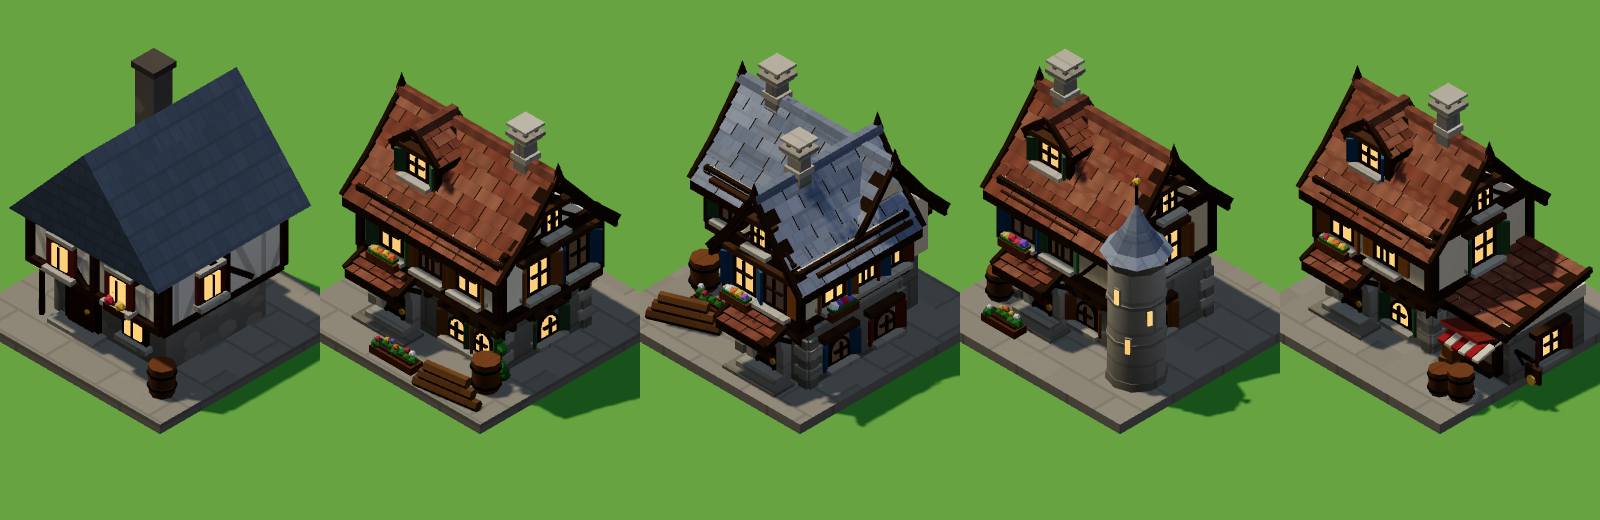
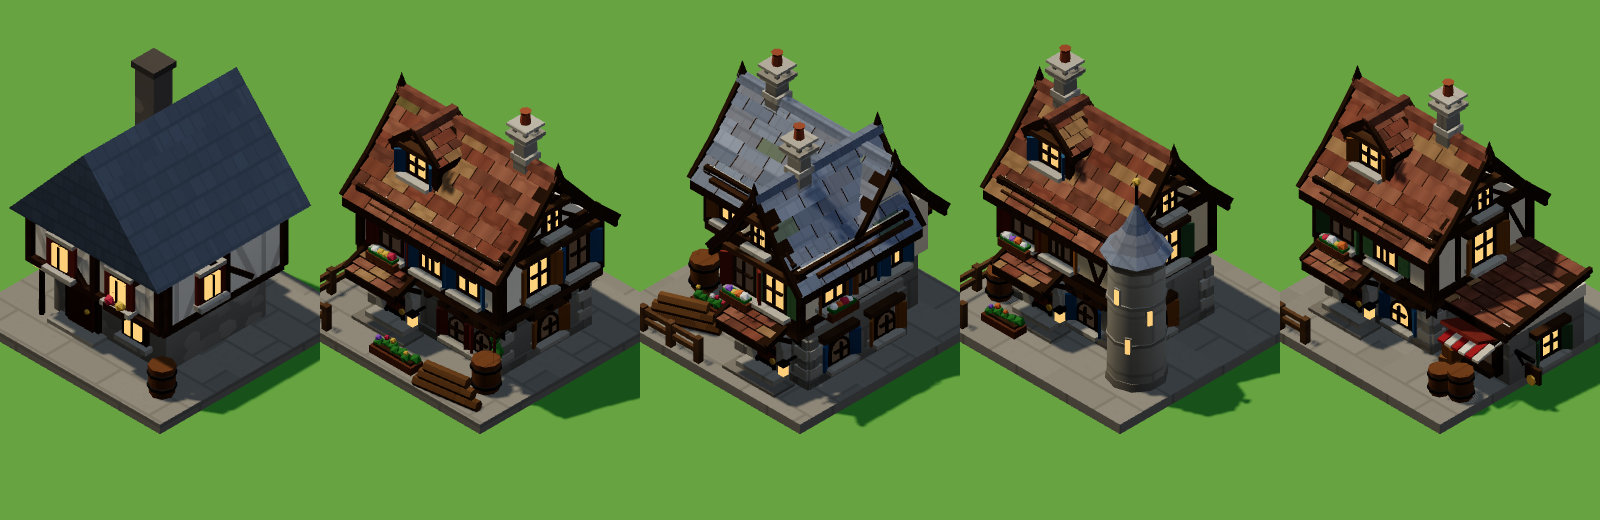
Ev prototipi ikinci görsel geçiş ve kamera mesafesine bağlı LOD
Toprak tonlu çatı paleti, kapı feneri, taban kuşağı, baca çömleği, bahçe çitleri, varyanta özgü iskelet deseni;
mimariLod (zoom eşiği, histerezis) sahne.js'e bağlandı; kaynak sınır testleri eklendi.

Claude-Session: https://claude.ai/code/session_018m4YWMHZMR8kk5FZK7FBZX

diff --git a/src/render/mimari/tarifler/yari_ahsap_ev.js b/src/render/mimari/tarifler/yari_ahsap_ev.js
@@ -35,7 +35,7 @@ function kanat(Y, S, o) {
     W.prizma([[uz0 + 0.04, y2 - 0.01], [uz1 - 0.04, y2 - 0.01], [czU, y2 + H - 0.065]], sx > 0 ? px - 0.04 : px, sx > 0 ? px : px + 0.04, 'x', 0, 0, 0, 'duz', o.siva);
   }
   // çatı
-  const cati = catiBesik(W, { x0: cxU, z0: czU, w: wU, d: dU, y: y2, H, oh: 0.05, rake: 0.04, renk, doku, kabukRenk: kabuk, kuyruk: true });
+  const cati = catiBesik(W, { x0: cxU, z0: czU, w: wU, d: dU, y: y2, H, oh: 0.05, rake: 0.04, renk, doku, kabukRenk: kabuk, kuyruk: true, yosun: S.yosun });
 
   for (const [f, tanim] of Object.entries(yuz)) {
     const gw = f[0] === 'z' ? w : d, uw = f[0] === 'z' ? wU : dU;
@@ -46,6 +46,8 @@ function kanat(Y, S, o) {
     const dl = [];
     if (tanim.kapi) { const k = tanim.kapi; kapi(G, S, k); dl.push([k.x - k.w / 2, k.x + k.w / 2]); if (tanim.tente) tente(G, S, { x: k.x, y: k.h + 0.04, w: k.w + 0.1 }); }
     for (const p of tanim.zemin || []) pencere(G, S, { y: 0.075, w: 0.07, h: 0.085, tip: 'kemer', panjur: 'acik', ...p });
+    // taş taban kuşağı (yağmur/çamur sıçraması için koyu ve çıkıntılı)
+    G.kutu(gw + 0.012, 0.034, 0.012, 0, 0, 0.004, 'moloz', S.tas);
     // köşe taşları (dönüşümlü uzun/kısa) iki uçta
     for (const s of [-1, 1]) {
       for (let i = 0; i < Math.floor(h1 / 0.04); i++) {
@@ -83,6 +85,8 @@ function sokak(Y, S, k, R, dekor) {
   const f = Y;
   if (dekor.patika) for (let i = 0; i < 3; i++) f.kutu(0.085 + R() * 0.03, 0.012, 0.075, dekor.patika[0] + (R() - 0.5) * 0.03, 0, dekor.patika[1] + i * 0.095, 'tasBlok', R() < 0.5 ? S.tasAcik : S.tas, { ry: (R() - 0.5) * 0.4 });
 }
+// Alçak ahşap bahçe çiti (k.cit): ön/yan kenarı tanımlar, avluya kimlik verir.
+function citSira(Y, x0, z0, x1, z1, Z) { Y.k.cit(x0, z0, x1, z1, Z, 0x7a5a3a, 0.1); }
 function varil(Y, S, x, z, y, s = 1) {
   Y.silindir(0.052 * s, 0.047 * s, 0.12 * s, 9, x, y, z, 'tahta', 0x8a5a32);
   for (const t of [0.22, 0.78]) Y.silindir(0.056 * s, 0.056 * s, 0.012 * s, 9, x, y + 0.12 * s * t - 0.006 * s, z, 'duz', S.demir);
@@ -179,15 +183,16 @@ export function yariAhsapEv(k, c, vr = 0) {
       dorm: [{ x: -0.14, z: 0.3 }, ...(sv3 ? [{ x: 0.14, z: 0.3 }] : [])], baca: [{ x: 0.22, h: 0.17 }] });
     varil(Y, S, 0.33, 0.3, Z, 1);
     Y.k.odun(0.28, 0.44, Z, 0.15, 0.9);
+    citSira(Y, -0.44, 0.44, -0.3, 0.44, Z); citSira(Y, -0.44, -0.05, -0.44, 0.44, Z);
     cicekYatagi(Y, S, 0.0, 0.405, Z + 0.0, 0.2, 0.06);
     sarmasik(Y, 0.305, 0.215, Z, 0.2);
     sokak(Y, S, k, R, { patika: [-0.16, 0.2] });
   } else if (vr === 1) {
     // L PLANLI: arka ana kanat (mahya x) + öne uzanan çapraz kanat (mahya z); arduvaz çatı
-    const a1 = kanat(Y, S, { Z, w: 0.6, d: 0.36, h1: 0.22, h2: 0.23 * s, H: 0.24 * s, cx: -0.05, cz: -0.14, cikma: ['x+', 'z+'], renk: arduvaz, doku: 'arduvaz', siva,
+    const a1 = kanat(Y, S, { Z, w: 0.6, d: 0.36, h1: 0.22, h2: 0.23 * s, H: 0.24 * s, cx: -0.05, cz: -0.14, cikma: ['x+', 'z+'], desen: 'x', renk: arduvaz, doku: 'arduvaz', siva,
       yuz: { 'z+': { zemin: [{ x: -0.2 }], ust: [{ x: -0.2, w: 0.08 }, { x: -0.04, w: 0.08, tip: 'cift' }] } },
       dorm: [], baca: [{ x: -0.2, h: 0.15 }] });
-    ana = kanat(Y, S, { Z, w: 0.46, d: 0.34, h1: 0.23, h2: 0.25 * s, H: 0.235 * s, cx: 0.17, cz: 0.07, ry: -PI / 2, cikma: ['x+'], renk: arduvaz, doku: 'arduvaz', siva,
+    ana = kanat(Y, S, { Z, w: 0.46, d: 0.34, h1: 0.23, h2: 0.25 * s, H: 0.235 * s, cx: 0.17, cz: 0.07, ry: -PI / 2, cikma: ['x+'], desen: 'x', renk: arduvaz, doku: 'arduvaz', siva,
       yuz: {
         'x+': { kapi: { x: 0.0, w: 0.1, h: 0.19 }, tente: true, ust: [{ x: -0.07, w: 0.08, saksi: true }, { x: 0.075, w: 0.08, panjur: 'kapali' }], alinPencere: true },
         'z-': { zemin: [{ x: -0.1 }, { x: 0.12 }], ust: [{ x: -0.1, w: 0.08, saksi: true }, { x: 0.05, w: 0.085, tip: 'cift' }, { x: 0.18, w: 0.07 }] },
@@ -197,10 +202,11 @@ export function yariAhsapEv(k, c, vr = 0) {
     cicekYatagi(Y, S, -0.22, 0.2, Z, 0.16, 0.06);
     varil(Y, S, -0.34, 0.12, Z, 1);
     Y.k.odun(-0.22, 0.34, Z, 0.4, 0.9);
+    citSira(Y, -0.44, 0.45, -0.04, 0.45, Z);
     sokak(Y, S, k, R, { patika: [0.05, 0.3] });
   } else if (vr === 2) {
     // KULELİ: ana kanat + sağ-ön köşede merdiven kulesi (üç kademeli külah)
-    ana = kanat(Y, S, { Z, w: 0.56, d: 0.4, h1: 0.23, h2: 0.25 * s, H: 0.25 * s, cx: -0.06, cz: -0.02, cikma: ['z+'], renk: kirem, doku: S.catiDoku, siva,
+    ana = kanat(Y, S, { Z, w: 0.56, d: 0.4, h1: 0.23, h2: 0.25 * s, H: 0.25 * s, cx: -0.06, cz: -0.02, cikma: ['z+'], desen: 'v', renk: kirem, doku: S.catiDoku, siva,
       yuz: {
         'z+': { kapi: { x: -0.1, w: 0.1, h: 0.19 }, tente: true, zemin: [{ x: 0.1 }], ust: [{ x: -0.16, w: 0.085, saksi: true }, { x: 0.02, w: 0.085, tip: 'cift' }] },
         'x+': { zemin: [{ x: -0.08 }], ust: [{ x: 0.0, w: 0.085 }], alinPencere: true },
@@ -209,10 +215,11 @@ export function yariAhsapEv(k, c, vr = 0) {
     kule(Y, S, { Z, x: 0.3, z: 0.22, r: 0.1, h: 0.46 * s, renk: arduvaz });
     cicekYatagi(Y, S, -0.22, 0.34, Z, 0.16, 0.06);
     varil(Y, S, -0.36, 0.22, Z, 0.9);
+    citSira(Y, -0.44, -0.2, -0.44, 0.4, Z); citSira(Y, -0.44, 0.44, -0.32, 0.44, Z);
     sokak(Y, S, k, R, { patika: [-0.1, 0.22] });
   } else {
     // ATÖLYELİ: küçük ana ev + sağda tek katlı, tezgâhlı atölye eki; tabela, tente, varil
-    ana = kanat(Y, S, { Z, w: 0.5, d: 0.42, h1: 0.23, h2: 0.25 * s, H: 0.25 * s, cx: -0.1, cz: -0.02, cikma: ['z+', 'x+'], renk: kirem, doku: S.catiDoku, siva,
+    ana = kanat(Y, S, { Z, w: 0.5, d: 0.42, h1: 0.23, h2: 0.25 * s, H: 0.25 * s, cx: -0.1, cz: -0.02, cikma: ['z+', 'x+'], desen: 'ince', renk: kirem, doku: S.catiDoku, siva,
       yuz: {
         'z+': { kapi: { x: -0.1, w: 0.1, h: 0.19 }, tente: true, zemin: [{ x: 0.12 }], ust: [{ x: -0.14, w: 0.085, saksi: true }, { x: 0.07, w: 0.085, tip: 'cift', panjur: 'kapali' }] },
         'x+': { ust: [{ x: 0.0, w: 0.085 }], alinPencere: true },
@@ -221,6 +228,7 @@ export function yariAhsapEv(k, c, vr = 0) {
     atolyeEki(Y, S, { Z, x: 0.345, z: -0.04, w: 0.26, d: 0.36, h: 0.2, renk: kirem, siva });
     varil(Y, S, 0.4, 0.3, Z, 0.9);
     varil(Y, S, 0.33, 0.33, Z, 0.8);
+    citSira(Y, -0.44, 0.45, -0.2, 0.45, Z);
     sokak(Y, S, k, R, { patika: [-0.1, 0.22] });
   }
   // seviye süsleri

diff --git a/tests/mimari.test.js b/tests/mimari.test.js
@@ -71,3 +71,41 @@ test('mimari: altı çağ stil paketi tanımlı, oyun çağları eşleşir', () 
 test('mimari: oyun verisine dokunulmadı (beş çağ)', () => {
   assert.equal(new Set(BINALAR.map((b) => b.cag)).size, 5);
 });
+
+import { mimariLod, LOD_ESIK, LOD_ARALIK } from '../src/render/mimari/index.js';
+
+test('mimari LOD: zoom eşiği histerezisli, titremez', () => {
+  assert.equal(mimariLod(1.6, 0), 1, 'varsayılan zoom uzak ayrıntı');
+  assert.equal(mimariLod(3.4, 1), 0, 'yakın zoom tam ayrıntı');
+  assert.equal(mimariLod(LOD_ESIK, 0), 0, 'eşikte durum değişmez (tam kalır)');
+  assert.equal(mimariLod(LOD_ESIK, 1), 1, 'eşikte durum değişmez (uzak kalır)');
+  assert.equal(mimariLod(LOD_ESIK + LOD_ARALIK + 0.01, 1), 0);
+  assert.equal(mimariLod(LOD_ESIK - LOD_ARALIK - 0.01, 0), 1);
+  // ileri-geri küçük oynamada geçiş sayısı: eşik çevresinde salınım tek geçişten fazla olmamalı
+  let l = 0, gecis = 0;
+  for (let i = 0; i < 200; i++) { const z = LOD_ESIK + Math.sin(i / 3) * 0.08; const n = mimariLod(z, l); if (n !== l) gecis++; l = n; }
+  assert.equal(gecis, 0, 'histerezis bandı içinde salınım geçiş üretmemeli');
+});
+
+test('mimari kaynak: üçgen, bellek, kurulum süresi ve çizim çağrısı sınırları', () => {
+  const t0 = performance.now();
+  for (let vr = 0; vr < 4; vr++) {
+    const tam = modelVerisi('yari_ahsap_ev', 1, '', vr, true, 0);
+    const uzak = modelVerisi('yari_ahsap_ev', 1, '', vr, true, 1);
+    const nTam = ucgen(tam.ana), nUzak = ucgen(uzak.ana);
+    assert.ok(nTam <= 6000, `v${vr} tam ${nTam} üçgen`);
+    assert.ok(nUzak <= nTam * 0.85, `v${vr} uzak (${nUzak}) tamdan (${nTam}) yeterince hafif değil`);
+    // çizim çağrısı: ana + ışıltı = en çok 2 ağ
+    assert.ok(tam.ana && (tam.isil === null || tam.isil), 'ana + ışıltı');
+    // bellek: köşe başına konum+normal+uv+hücre+renk = 13 float
+    const bayt = (ucgen(tam.ana) + ucgen(tam.isil)) * 3 * 13 * 4;
+    assert.ok(bayt < 1.2 * 1024 * 1024, `v${vr} ${(bayt / 1048576).toFixed(2)} MB`);
+    assert.equal(tam.ana.getAttribute('position').count % 3, 0);
+    // bounding box makul: karo dışına taşmaz (ölçek 1.24 sonrası ±0.75'ten dar)
+    tam.ana.computeBoundingBox();
+    const b = tam.ana.boundingBox;
+    assert.ok(b.max.x < 0.8 && b.min.x > -0.8 && b.max.z < 0.8 && b.min.z > -0.8, `v${vr} taşma ${b.min.x.toFixed(2)}..${b.max.x.toFixed(2)}`);
+    assert.ok(b.max.y < 2.0, `v${vr} yükseklik ${b.max.y.toFixed(2)}`);
+  }
+  assert.ok(performance.now() - t0 < 3000, 'sekiz modelin kurulumu çok yavaş');
+});

diff --git a/src/render/sahne.js b/src/render/sahne.js
@@ -8,6 +8,7 @@ import { takvim } from '../core/takvim.js';
 import { binaIsi, binaCalisir } from '../core/yardimci.js';
 import { HaritaCizim, MEVSIM_STIL } from './harita.js';
 import { binaModeli, modeliTemizle } from './binalar.js';
+import { mimariLod } from './mimari/index.js';
 import { KoyCizim } from './koy.js';
 import { ORTAK } from './malzeme.js';
 import { stilKur } from './stil.js';
@@ -27,6 +28,7 @@ export class Sahne {
     this.n = 64;
     this.hedef = new THREE.Vector3(32, 0, 32);
     this.durum = null;
+    this.lod = 0; // mimari motor ayrıntı seviyesi (kamera zoom'una bağlı; bkz. kameraGuncelle)
     this.anahtarlar = {};
 
     this.renderer = new THREE.WebGLRenderer({ antialias: true, powerPreference: 'high-performance' });
@@ -229,7 +231,7 @@ export class Sahne {
           insa: isi === 'insa' ? 1 - b.insaKalan / Math.max(1, t.insaSuresi) : null,
           hasarli: b.hasarli, isi, kapali: isi !== 'insa' && !b.hasarli && kapali.includes(b.uid),
           bag: t.cevre ? maske.get(`${b.x},${b.y}`) : 0,
-        });
+        }, { lod: this.lod });
         model.position.set(b.x + t.boyut[0] / 2, 0, b.y + t.boyut[1] / 2);
         // çeşitlilik: kapı her zaman kameraya bakan iki yüzden birinde (+z / +x); çevre parçaları döndürülmez (kollar eksene hizalı)
         if (t.tur !== 'merkez' && !t.cevre && ((b.x * 7 + b.y * 13) & 1)) model.rotation.y = Math.PI / 2;
@@ -307,6 +309,12 @@ export class Sahne {
     this.gunes.target.position.copy(this.hedef);
     this.gunes.target.updateMatrixWorld();
     this.kirli = true;
+    // kamera uzaklığına göre bina ayrıntısı: eşik geçilince modeller önbellekteki geometrilerle yeniden kurulur
+    const lod = mimariLod(this.kamera.zoom, this.lod);
+    if (lod !== this.lod) {
+      this.lod = lod;
+      if (this.durum) { this.anahtarlar.bina = null; this.guncelle(this.durum); }
+    }
   }
 
   ekranZemin(px, py, hedef = new THREE.Vector3()) {

diff --git a/src/render/mimari/cati.js b/src/render/mimari/cati.js
@@ -48,7 +48,9 @@ function kaplama(Y, o) {
       a = Math.max(a, x0 - L / 2); b = Math.min(b, x0 + L / 2);
       if (b - a < 0.02) continue;
       const eski = R() < 0.05; // yaşlanmış/yama dilim: bazı kiremitler belirgin koyu ya da soluk
-      const c = new THREE.Color(rastgeleRenk(R, renk)).multiplyScalar(ton * (0.96 + R() * 0.08) * (eski ? (R() < 0.5 ? 0.8 : 1.12) : 1));
+      const sakin = uzak ? 0.4 : 1; // uzak görünümde dilim rengi dalgalanması azalır: çatı daha temiz okunur
+      const c = new THREE.Color(rastgeleRenk(R, renk)).multiplyScalar(ton * (1 + (R() - 0.5) * 0.08 * sakin) * (eski && !uzak ? (R() < 0.5 ? 0.8 : 1.12) : 1));
+      if (!uzak && o.yosun && R() < 0.035) c.lerp(new THREE.Color(o.yosun), 0.55); // yosunlu dilim
       Y.ekle(dilimGeo(u, l, kalkik, a, b, nz, ny, dz / len, dy / len), 0, 0, 0, doku, c.getHex());
     }
   }
@@ -73,8 +75,8 @@ export function catiBesik(Y, o) {
   const sutun = o.sutun ?? Math.max(4, Math.round(L / 0.115));
   for (const s of [1, -1]) {
     const P = (p) => [z0 + s * p[0], p[1]];
-    kaplama(Y, { P: P(R0), Q: P(M0), kal, x0, L, renk, satir: satirUst, sutun, th, doku, kabukRenk });
-    kaplama(Y, { P: P(M0), Q: P(E0), kal, x0, L, renk, satir: satirAlt, sutun, th, doku, kabukRenk });
+    kaplama(Y, { P: P(R0), Q: P(M0), kal, x0, L, renk, satir: satirUst, sutun, th, doku, kabukRenk, yosun: o.yosun });
+    kaplama(Y, { P: P(M0), Q: P(E0), kal, x0, L, renk, satir: satirAlt, sutun, th, doku, kabukRenk, yosun: o.yosun });
     // saçak tahtası + alın kirişleri (rüzgârlık)
     Y.kiris([x0 - L / 2, E0[1] - kal * 0.5, z0 + s * (zE - 0.004)], [x0 + L / 2, E0[1] - kal * 0.5, z0 + s * (zE - 0.004)], 0.014, kal + 0.012, 'tahta', kabukRenk);
     for (const e of [-1, 1]) {

diff --git a/src/render/mimari/parcalar.js b/src/render/mimari/parcalar.js
@@ -88,6 +88,10 @@ export function kapi(Y, S, o) {
   // kanat
   Y.prizma(kemerProfil(w, h, 6), 0.0, 0.026, 'z', x, 0, 0, 'tahta', S.kapi);
   // dikey tahta çizgileri ve demir bantlar
+  // kapı feneri: demir konsol + ışıklı cam (sağ söve yanında)
+  Y.kiris([x + w / 2 + 0.07, d * 0.82, 0.01], [x + w / 2 + 0.07, d * 0.82, 0.07], 0.008, 0.008, 'duz', S.demir);
+  Y.kutu(0.026, 0.04, 0.026, x + w / 2 + 0.07, d * 0.82 - 0.044, 0.07, 'duz', S.camIsik, { isil: true, arka: true });
+  Y.kutu(0.034, 0.008, 0.034, x + w / 2 + 0.07, d * 0.82 - 0.004, 0.07, 'duz', S.demir, { arka: true });
   if (Y.k.lod) return;
   for (const t of [-0.25, 0.25]) Y.kutu(0.005, d * 0.94, 0.006, x + t * w, 0.01, 0.028, 'kutuk', renkCarp(S.kapi, 0.62));
   for (const t of [0.22, 0.66]) {
@@ -175,6 +179,9 @@ export function baca(Y, S, o) {
   Y.kutu(w + 0.034, 0.014, w + 0.034, x, y + h + 0.012, z, 'tasBlok', S.tas);
   for (const [dx, dz] of [[-1, -1], [1, -1], [-1, 1], [1, 1]]) Y.kutu(0.014, 0.026, 0.014, x + dx * w * 0.38, y + h + 0.026, z + dz * w * 0.38, 'tasBlok', S.tas);
   Y.kutu(w + 0.03, 0.01, w + 0.03, x, y + h + 0.052, z, 'tasBlok', S.tasAcik);
+  // taş çömlek (baca külahı)
+  Y.silindir(0.016, 0.02, 0.04, 7, x, y + h + 0.062, z, 'duz', S.kil);
+  Y.silindir(0.022, 0.016, 0.012, 7, x, y + h + 0.1, z, 'duz', S.kil);
   // sıva bandı gövdede
   Y.kutu(w + 0.01, 0.024, w + 0.01, x, y + h * 0.5, z, 'tasBlok', S.tasAcik);
   const p = Y.nokta(x, y + h + 0.07, z);

diff --git a/src/render/mimari/index.js b/src/render/mimari/index.js
@@ -27,3 +27,11 @@ export function mimariAcik() {
   } catch { acik = false; }
   return acik;
 }
+
+// Kamera uzaklığına bağlı ayrıntı seviyesi: zoom eşiği (oyunda varsayılan 1.6, yakın 3.4). Titremeyi önlemek için histerezis.
+// 0 = tam ayrıntı, 1 = uzak (küçük ayrıntılar atılır, kiremit sıraları iriler; silüet ve ana mimari korunur).
+export const LOD_ESIK = 2.0, LOD_ARALIK = 0.12;
+export function mimariLod(zoom, onceki = 0) {
+  if (onceki === 1) return zoom > LOD_ESIK + LOD_ARALIK ? 0 : 1;
+  return zoom < LOD_ESIK - LOD_ARALIK ? 1 : 0;
+}

diff --git a/src/render/mimari/cag_stilleri.js b/src/render/mimari/cag_stilleri.js
@@ -19,8 +19,9 @@ export const CAG_STILLERI = {
     siva: [0xece1c8, 0xe6d6b4, 0xdcc8a0, 0xe9d9bb],
     kiris: 0x45301f, kirisAcik: 0x5d4128,
     tas: 0x9a9384, tasAcik: 0xb9b2a0,
-    kiremit: [0x96624c, 0x8c5842, 0xa06c54, 0x935a44],
-    arduvaz: [0x8892a0, 0x7c8796, 0x959fad],
+    kiremit: [0x8a6a58, 0x7e6050, 0x94745e, 0x866652, 0xa08a66, 0x70584a],
+    arduvaz: [0x8892a0, 0x7c8796, 0x959fad, 0x8a8f98],
+    yosun: 0x6f8248, kil: 0xa05a3a,
     catiDoku: 'kiremit',
     panjur: [0x8a3f2c, 0x55784f, 0x3f6a8a, 0xa0682e],
     kapi: 0x8a4a28,

diff --git a/docs/MIMARI_URETIM.md b/docs/MIMARI_URETIM.md
@@ -18,8 +18,10 @@ Eski modeller (`binalar.js` `M.*`) ve `Kurucu` aynen durur; yeni katman `Kurucu.
 - Önbellek anahtarı `id|seviye|durum|m<varyant>[u]`; varyant sayısı sınırlıdır (kontrolsüz benzersiz geometri yok). `u` = uzak ayrıntı (`lod`).
 - Koordinat/yön: karo birimi; ön cephe +z, ikinci görünür cephe +x. Cephe çerçevesinde arka/alt yüz atılır (kamera yukarıdan bakar).
 - Yeni bina eklemek: `tarifler/<id>.js` yaz → `index.js` `KAYIT`'a ekle → `tests/mimari.test.js`'e üçgen/varyant kontrolü ekle.
-- Üçgen: konut 3,5–4,7 bin (eski 0,9 bin); `lod` uzak ≈ %30 az. LOD'un `sahne.js` zoom'una bağlanması YAPILMADI.
+- LOD: `mimariLod(zoom, onceki)` (eşik 2.0, histerezis ±0.12); `sahne.js` `kameraGuncelle` eşik geçince bina modellerini önbellekteki geometrilerle yeniden kurar. Uzak: kiremit sıraları iri, küçük ayrıntı (çıta, konsol, çiçek, sarmaşık, demir bant) yok, dilim rengi sakin.
+- Üçgen: konut 3,7–4,9 bin tam, ≈ %30 az uzak (eski 0,9 bin). Testler: üçgen ≤ 6000, uzak ≤ %85, model başına bellek < 1,2 MB, taşma, kurulum süresi, LOD histerezisi.
+- Bellek notu: her (varyant × seviye × durum × LOD) ayrı geometridir (~0,8 MB); kullanım ihtiyaç anında dolar, boşaltma yok.
 
-## Ölçüm
+## Ölçüm (isteğe bağlı; kullanıcı kararıyla gerçek cihaz ölçümü yapılmıyor)
 - `olcum.html` (build'e dahil): eski/yeni/yeni-uzak × 30/80/160 konut; fps, ort/p95 ms, çağrı, üçgen, kurulum süresi, GPU adı. Yazılım çizimi (SwiftShader) algılanırsa uyarır: telefon sayısı değildir.
 - `karsilastir.html` (yalnız `npm run dev`): eski + varyantlar yan yana. `tests/e2e/mimari.mjs`: oyun sahnesinde eski/yeni köy ekran görüntüsü.

diff --git a/CHANGELOG_DEV.md b/CHANGELOG_DEV.md
@@ -1,5 +1,9 @@
 # CHANGELOG_DEV (yalnız son kayıtlar; eskiler `docs/CHANGELOG_ARSIV.md`)
 
+## 2026-10-30 — Ev prototipi 2. görsel geçiş + kamera LOD'u (Sonnet 5.5)
+- Ev: toprak tonlu çatı paleti (ocra/kahve karışımı, yosunlu dilim, yaşlı dilim), kapı feneri, taş taban kuşağı, baca çömleği, alçak bahçe çitleri, varyanta özgü iskelet deseni (carpraz/x/v/ince). Kullanıcı kararı: gerçek cihaz ölçümü yok; görsel kalite öncelikli.
+- LOD: `mimariLod` (zoom 2.0 eşiği, histerezis) + `sahne.js` bağlantısı (yalnız mimari motorlu binalar etkilenir). Testler 9 → 11 (kaynak sınırları, LOD).
+
 ## 2026-10-30 — Prosedürel mimari motor temeli + yarı ahşap ev prototipi (Sonnet 5.5)
 - Yeni `src/render/mimari/` (geometri, çatı, parçalar, çağ stilleri, varyasyon, `yari_ahsap_ev` 4 varyant); ayrıntı: `docs/MIMARI_URETIM.md`. Varsayılan KAPALI (`?mimari=yeni`). `binalar.js`'e yalnız kanca eklendi (`modelVerisi` dışa açık + `vr/yeni/lod` parametreleri); eski modeller değişmedi. Geri dönüş: dal `yedek/mimari-oncesi`.
 - Ölçüm/karşılaştırma: `olcum.html` (build'e dahil, `vite.config.js` iki girişli), `karsilastir.html` (dev), `tests/e2e/mimari.mjs`, `tests/mimari.test.js` (7 test). `npm test` 203/204 (+1 todo), e2e 111/111.
